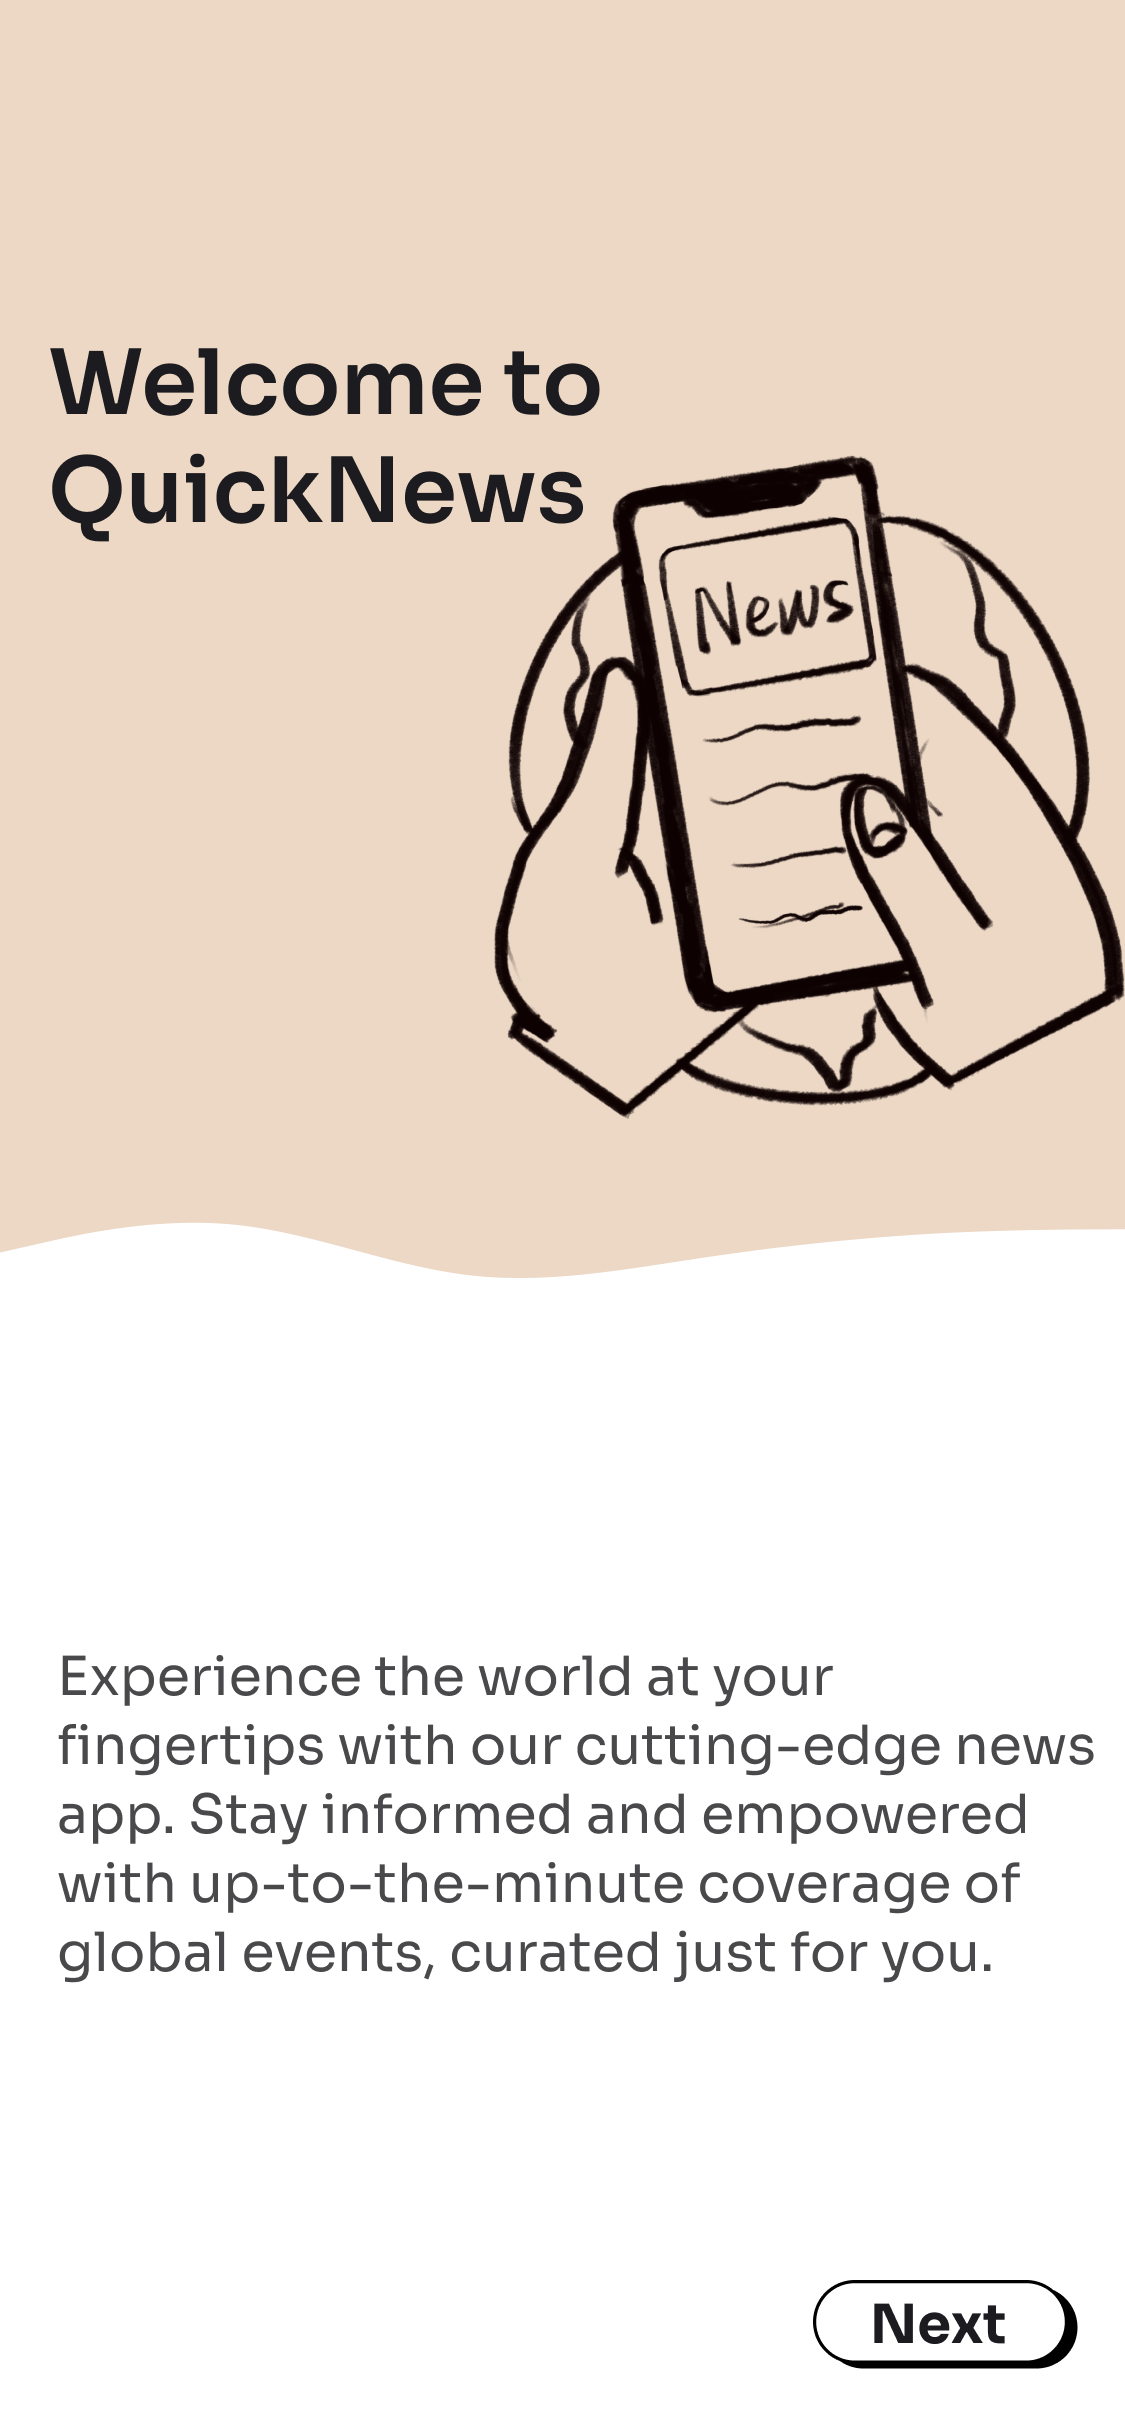
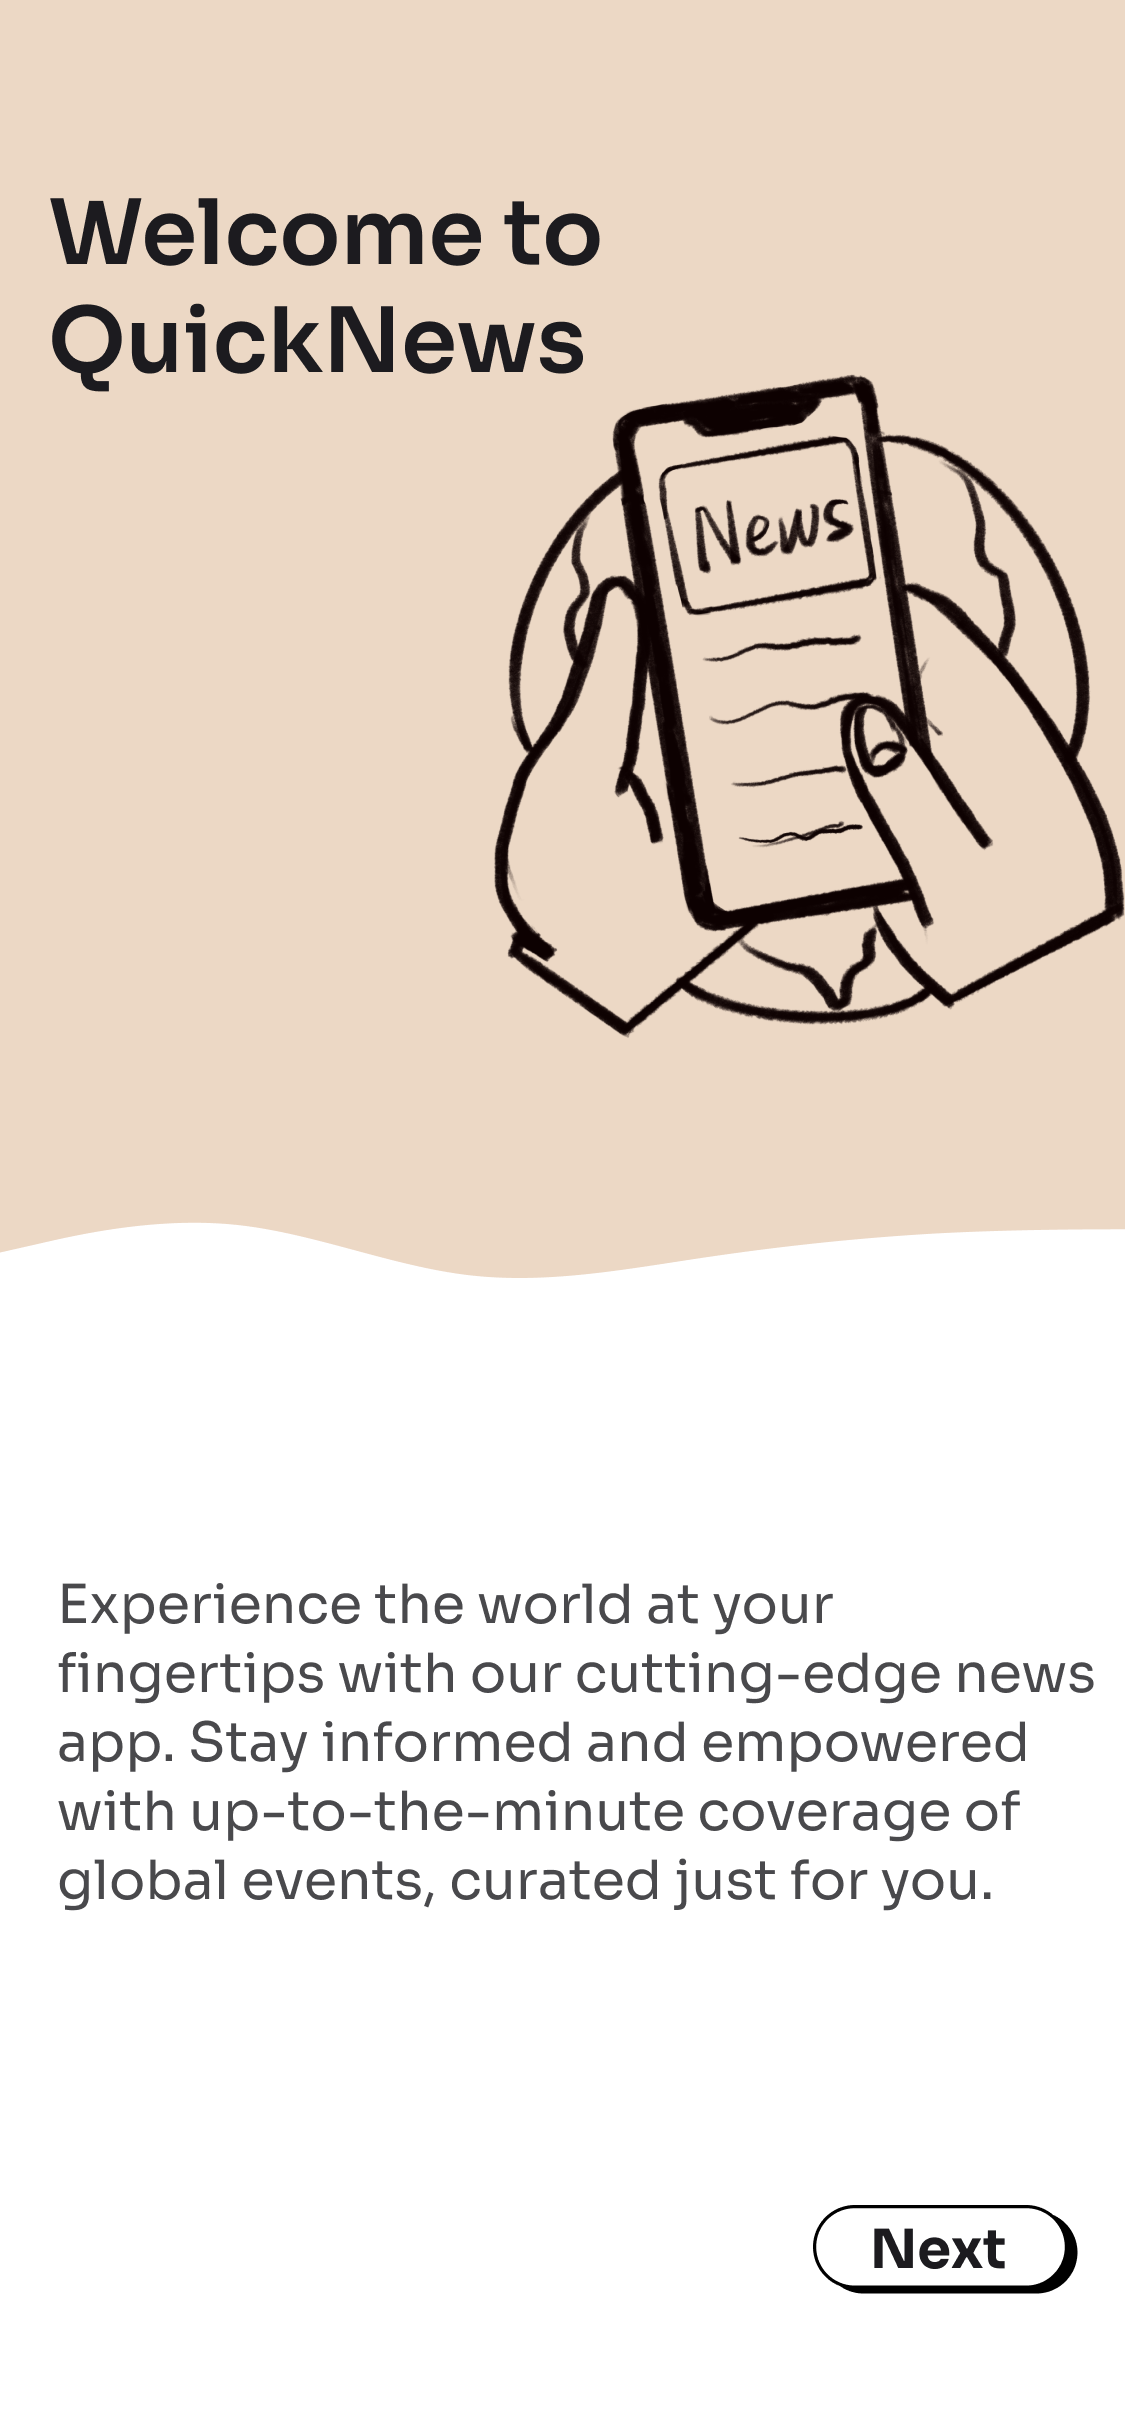
fix: page display

Changed region(s): [[0.0311, 0.0624, 1.0, 0.468], [0.0622, 0.6552, 0.9644, 0.8112], [0.7156, 0.9048, 0.9644, 0.9984]]

diff --git a/src/components/Purchase/index.module.css b/src/components/Purchase/index.module.css
@@ -30,23 +30,29 @@
 }
 
 .confirm {
-  background-color: black;
   position: absolute;
-  top: 259.5%;
+  top: 259%;
   left: 39%;
-  /* opacity: 0; */
+
+  background-color: #007aff;
   border: none;
   width: 90px;
-  height: 29px;
+  height: 30px;
   border-radius: 100px;
+
+  color: white;
+  font-size: 16px;
+  font-weight: bold;
+  text-align: center;
+  line-height: 30px;
 }
 
 .close {
-  background-color: black;
+  /* background-color: black; */
   position: absolute;
   top: 4.5%;
   left: 88.5%;
-  /* opacity: 0; */
+  opacity: 0;
   border: none;
   width: 31px;
   height: 31px;

diff --git a/src/pages/Intro/index.module.css b/src/pages/Intro/index.module.css
@@ -1,13 +1,15 @@
 /* Intro */
 .introImg {
-  width: 100vw;
-  height: 100%;
+  width: 100%;
+  /* height: 100%; */
 }
 
 .intro1,
 .intro2,
 .intro3 {
   position: relative;
+  height: 100%;
+  width: 100%;
 }
 
 .intro1Next,
@@ -16,7 +18,7 @@
   position: absolute;
   opacity: 0;
   /* background: black; */
-  top: 107.5vh;
+  top: 104vh;
   right: 4.5vw;
   width: 98px;
   height: 32px;
@@ -26,7 +28,8 @@
 .intro3Back {
   position: absolute;
   opacity: 0;
-  top: 107.5vh;
+  /* background: black; */
+  top: 104vh;
   left: 4.5vw;
   width: 98px;
   height: 32px;

diff --git a/src/components/Purchase/index.js b/src/components/Purchase/index.js
@@ -13,7 +13,9 @@ function Purchase({ image, confirm, close }) {
     >
       <div className={styles.modal}>
         <img src={image} className={styles.img} />
-        <button className={styles.confirm} onClick={confirm}></button>
+        <button className={styles.confirm} onClick={confirm}>
+          {'Confirm'}
+        </button>
         <button className={styles.close} onClick={close}></button>
       </div>
     </motion.div>

diff --git a/src/components/Notice/index.module.css b/src/components/Notice/index.module.css
@@ -23,8 +23,8 @@
   width: 45px;
   height: 20px;
   border-radius: 20px;
-  background-color: black;
-  /* opacity: 0; */
+  /* background-color: black; */
+  opacity: 0;
   z-index: 1000;
 }
 
